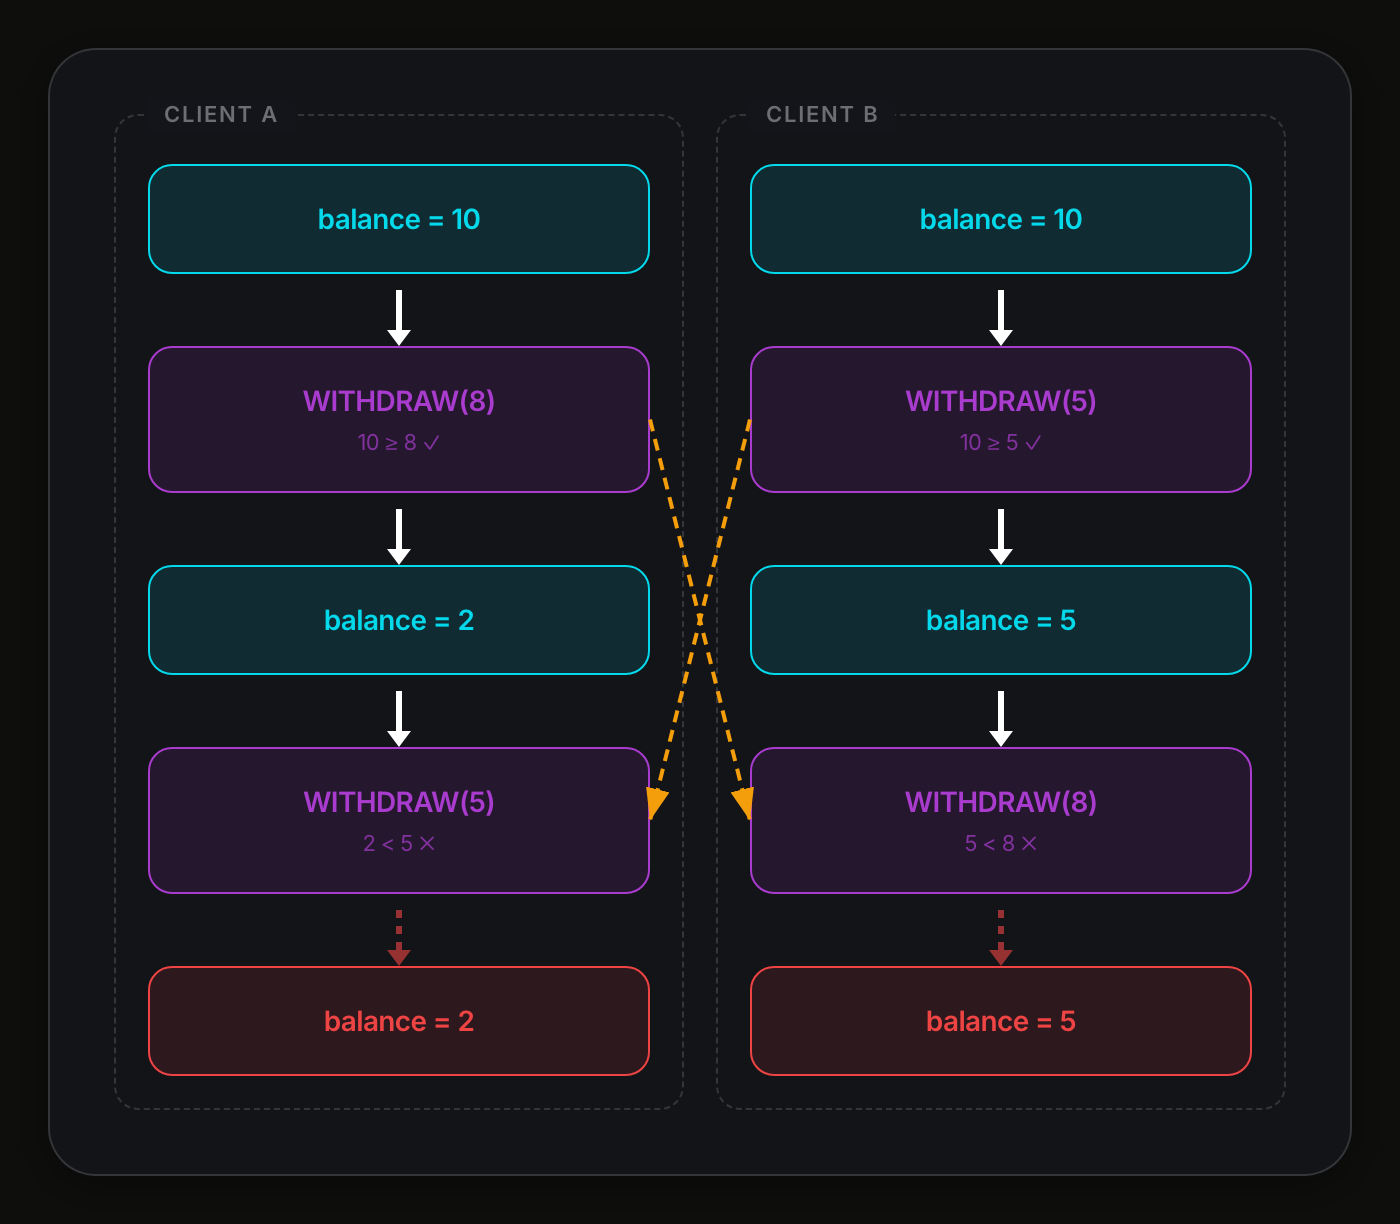
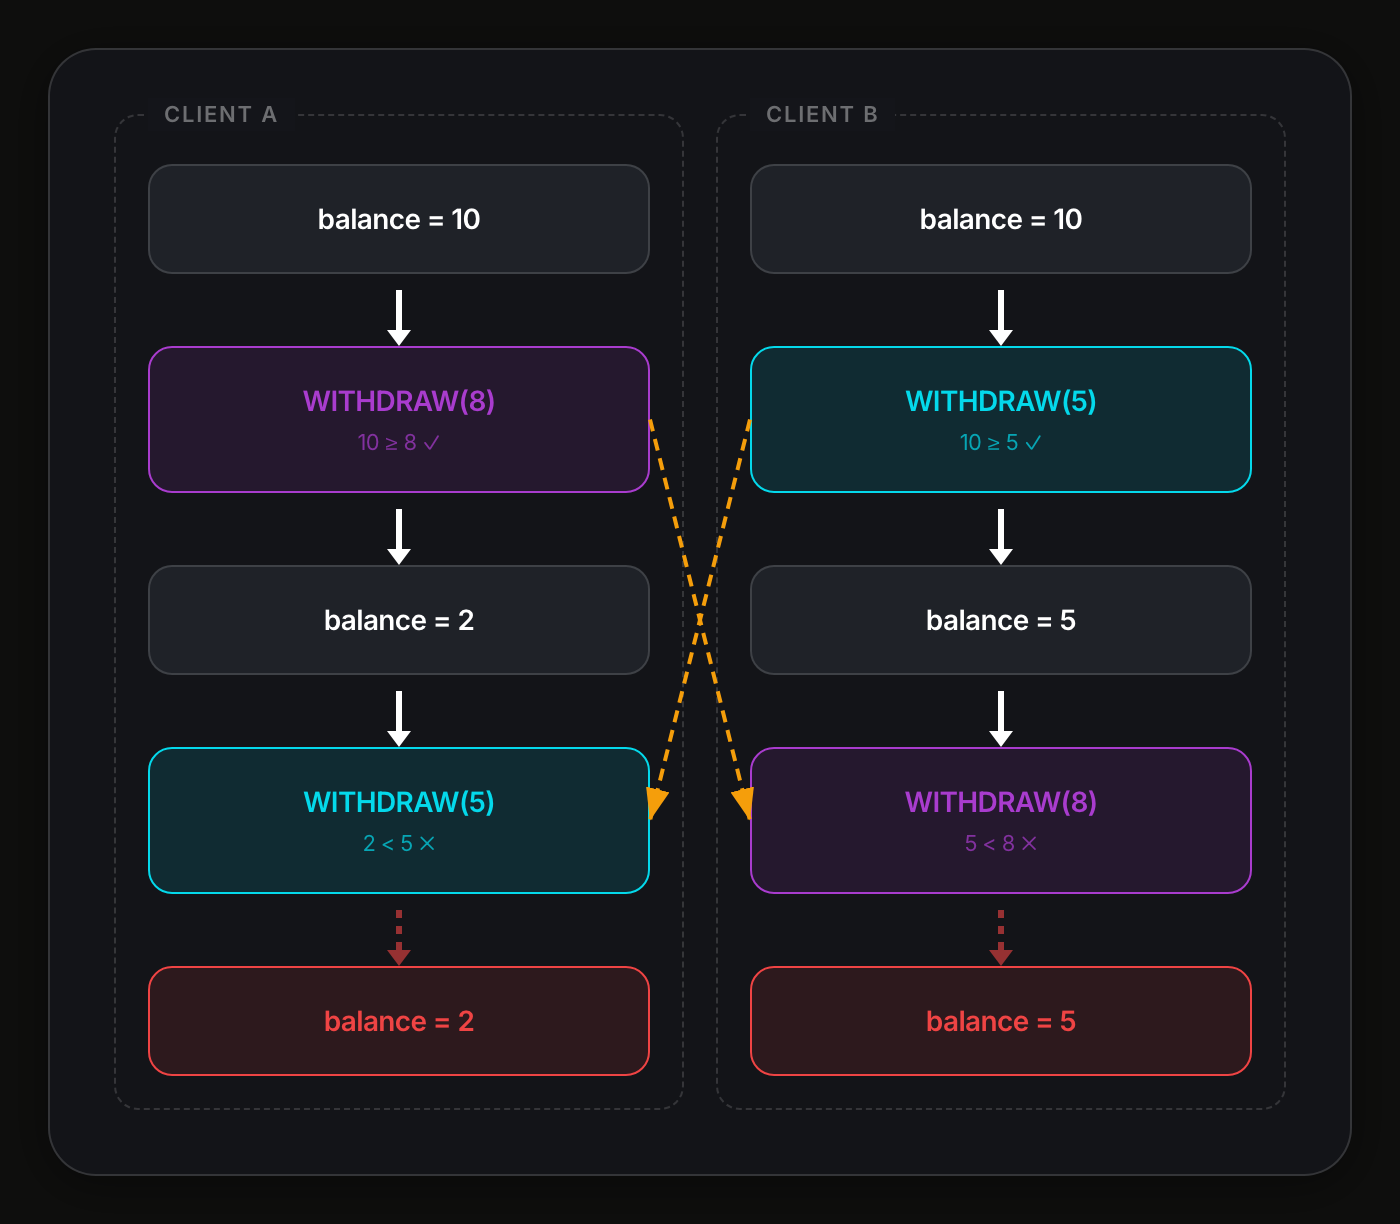
rebuild: crdt-withdraw matches the crdt-max colour scheme

diff --git a/diagrams/pages/crdt-withdraw-divergence.html b/diagrams/pages/crdt-withdraw-divergence.html
@@ -153,7 +153,7 @@
           <div class="side-wrapper">
             <span class="side-wrapper-label">Client A</span>
             <div class="col-flow">
-              <div class="box accent-cyan">
+              <div class="box">
                 <div class="box-title">balance = 10</div>
               </div>
               <div class="v-connector"></div>
@@ -162,11 +162,11 @@
                 <div class="box-note">10 &ge; 8 &check;</div>
               </div>
               <div class="v-connector"></div>
-              <div class="box accent-cyan">
+              <div class="box">
                 <div class="box-title">balance = 2</div>
               </div>
               <div class="v-connector"></div>
-              <div class="box accent-purple" data-arrow="a-w5">
+              <div class="box accent-cyan" data-arrow="a-w5">
                 <div class="box-title">WITHDRAW(5)</div>
                 <div class="box-note">2 &lt; 5 &cross;</div>
               </div>
@@ -181,16 +181,16 @@
           <div class="side-wrapper">
             <span class="side-wrapper-label">Client B</span>
             <div class="col-flow">
-              <div class="box accent-cyan">
+              <div class="box">
                 <div class="box-title">balance = 10</div>
               </div>
               <div class="v-connector"></div>
-              <div class="box accent-purple" data-arrow="b-w5">
+              <div class="box accent-cyan" data-arrow="b-w5">
                 <div class="box-title">WITHDRAW(5)</div>
                 <div class="box-note">10 &ge; 5 &check;</div>
               </div>
               <div class="v-connector"></div>
-              <div class="box accent-cyan">
+              <div class="box">
                 <div class="box-title">balance = 5</div>
               </div>
               <div class="v-connector"></div>
